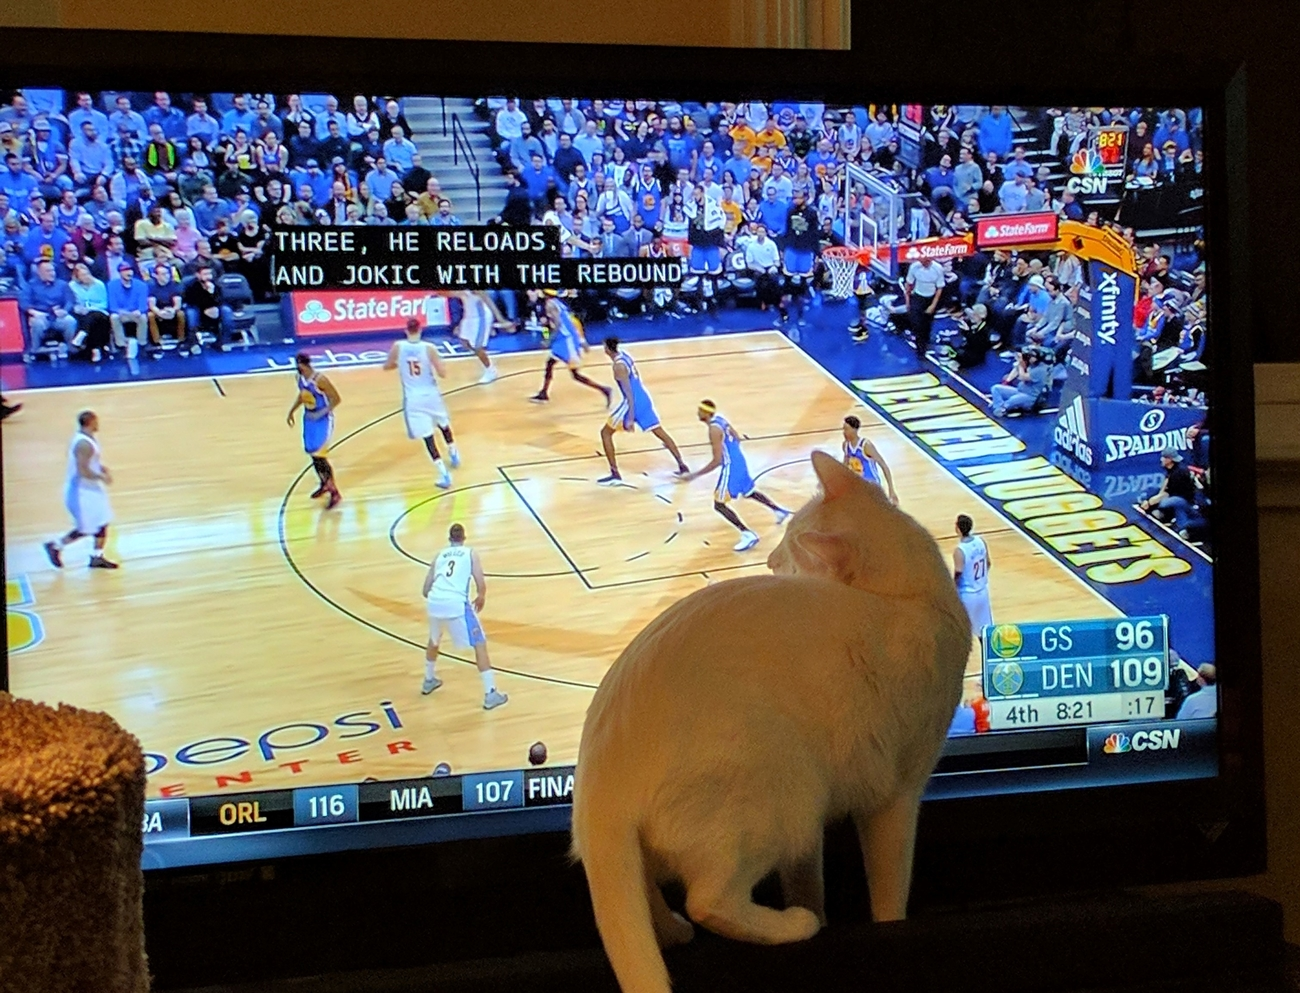
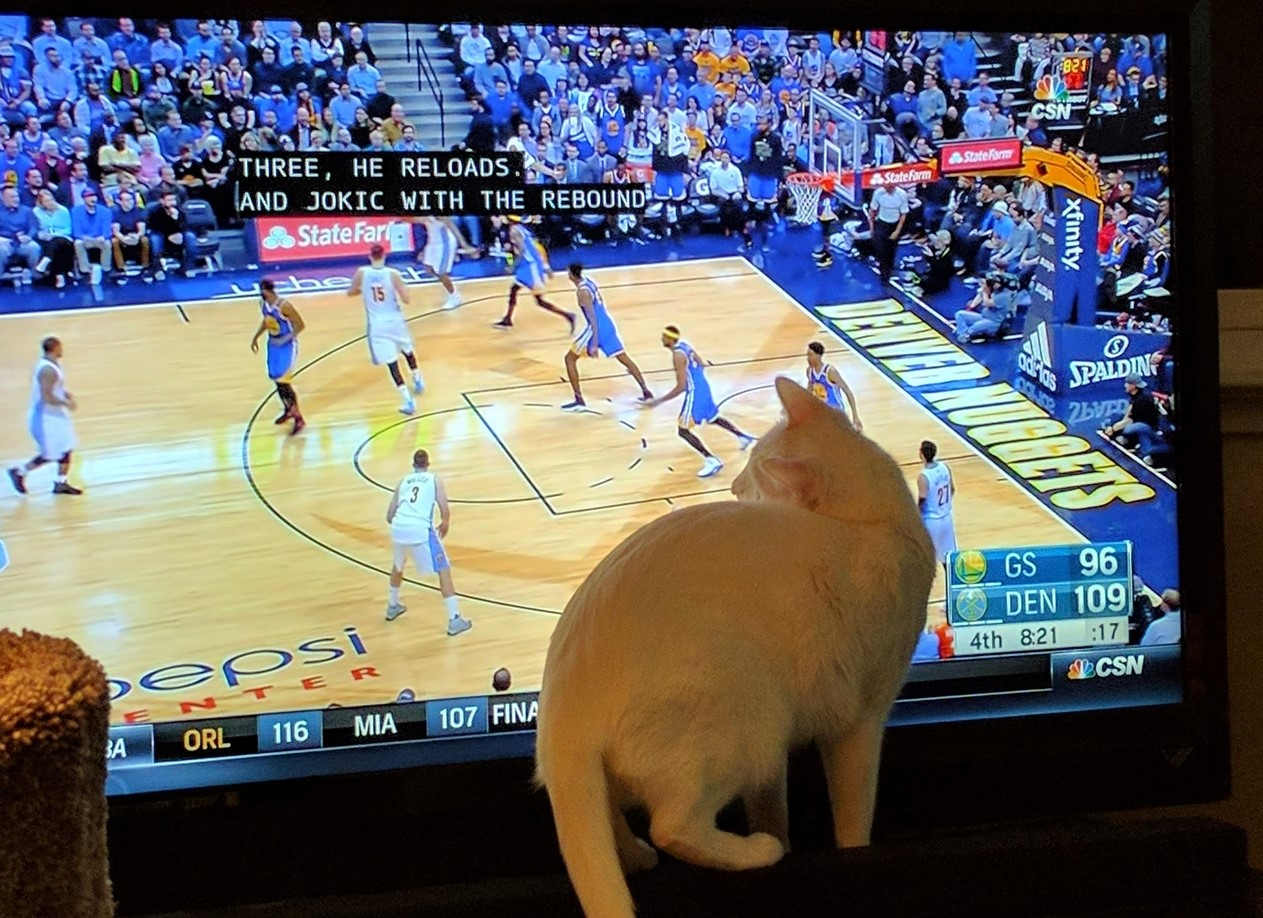
padding and shadow on pictures, more flexbox tweaking

diff --git a/style.css b/style.css
@@ -12,8 +12,9 @@
 
 h1 {
 	text-align: center;
-	color: white;
+	color: #FC4A1A;
 	top: 0px;
+  font-size: 3em;
 }
 
 h2 {
@@ -22,41 +23,55 @@ h2 {
 	bottom: 0px;
 	left: 20%;
 	right: 20%;
-	color: white;
+	color: #FC4A1A;
+  font-size: 1.5em;
 }
 
 body {
-  background: skyblue;
+  background: #4ABDAC;
 }
 
 #container {
   display: flex;
   flex-direction: row;
+  flex-wrap: nowrap;
   justify-content: space-around;
-  margin: 10px;
-  flex-grow: 2;
+  align-items: center;
+  align-content: space-between;
 }
 
 #left {
+  width: 40%;
+  flex-basis: auto;
 	margin: 20px;
+  padding: 5px;
 }
 
 #right {
+  width: 40%;
+  flex-basis: auto;
 	margin: 20px;
+  padding: 5px;
 }
 
 #left img {
   width: 90%;
   margin-left: auto;
-  margin-right: auto;
+  margin-right: auto; 
+  padding: 10px;
+  background-color: #373737;
+  box-shadow: 10px 10px 5px #07889B;
 }
 
-
-
-
-
 #right img {
-  width: 75%;
+  width: 100%;
   margin-left: auto;
   margin-right: auto;
+  padding: 10px;
+  background-color: #373737;
+  box-shadow: 10px 10px 5px #07889B;
+}
+
+form {
+  display: block;
 }

diff --git a/index.html b/index.html
@@ -5,9 +5,9 @@
 </head>
 <body>
   <header id="top">
-  <H1>ShooShoo and Y-Y!</H1>
+  <h1>ShooShoo and Y-Y!</h1>
   <!-- <img src="big-heads.jpg" alt="because why not?"> -->
-  <H2>Everything you never needed to know about the ocean appartment cats Y-Y! and ShooShoo.</H2>
+  <h2>Everything you never needed to know about the ocean appartment cats Y-Y! and ShooShoo.</h2>
   </header>
   <div id="container">
     <div id="left">
